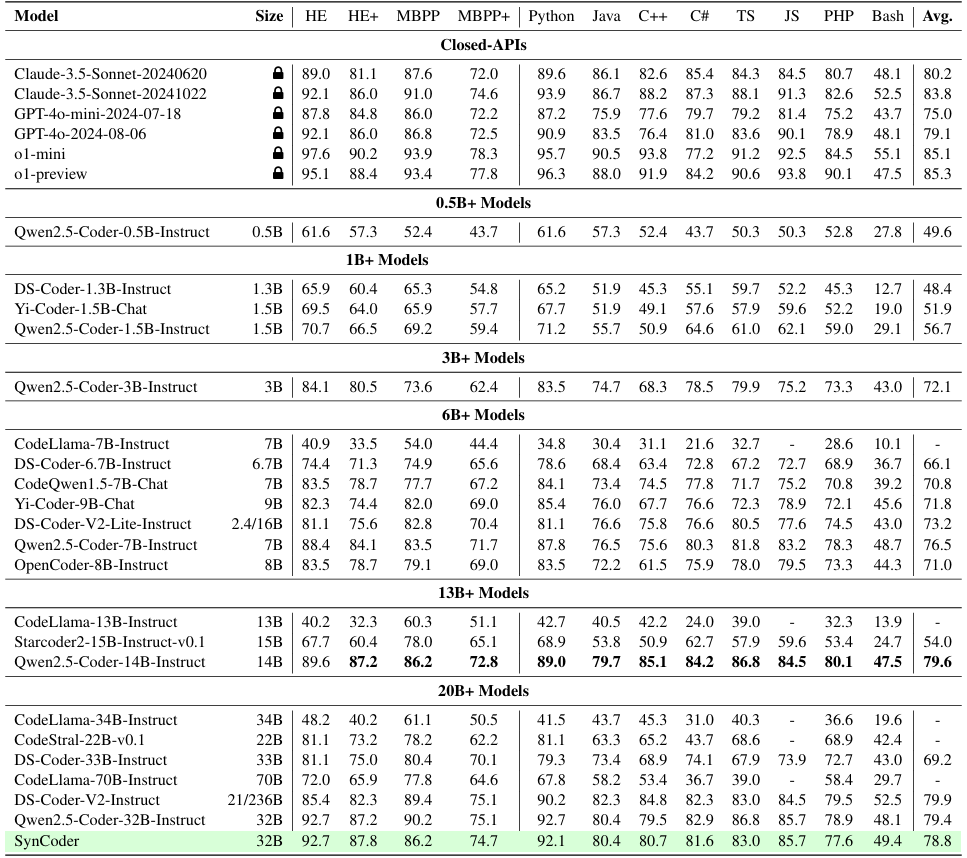
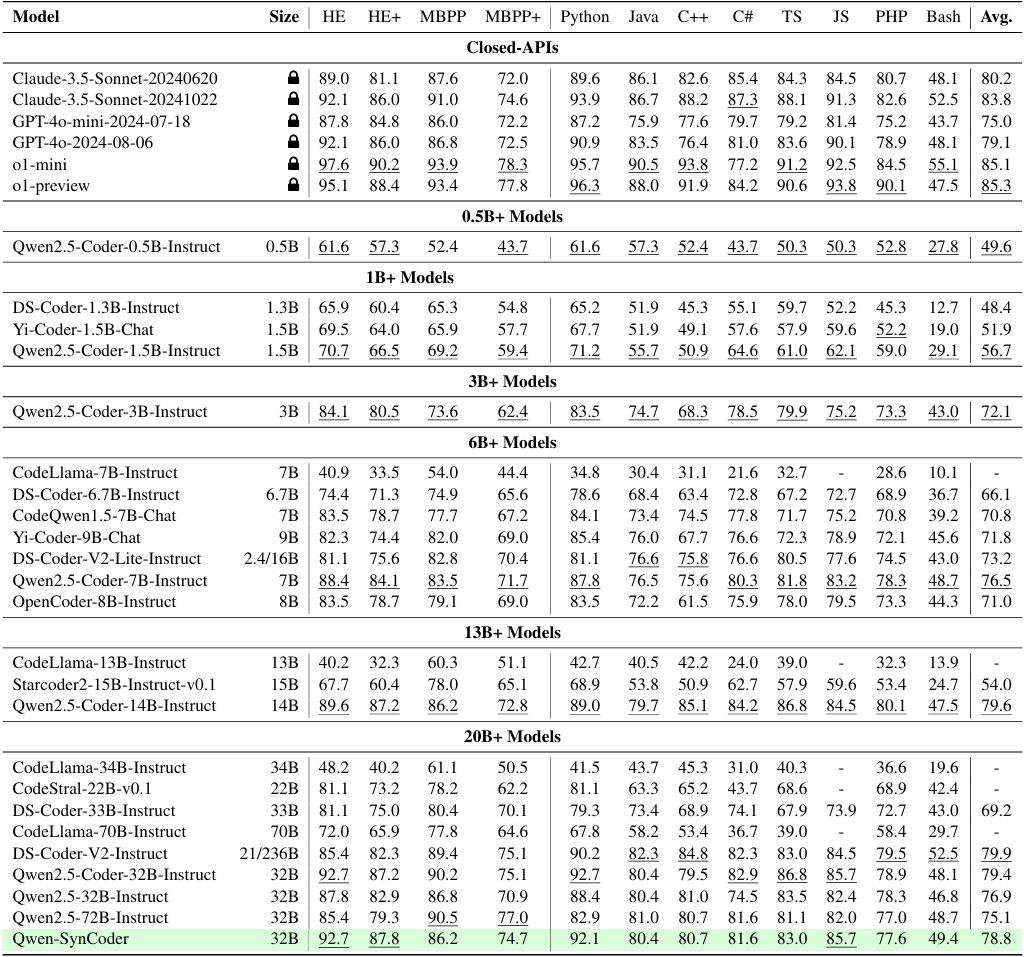
add qwq and change Qwen-SynCoder name

Changed region(s): [[0.0, 0.0, 1.0, 1.0]]

diff --git a/build/index.html b/build/index.html
@@ -195,7 +195,7 @@
               preference, which covers 40 categories, encompassing 7 major categories and 40 subcategories.
               (2) We introduce <span class="dnerf">synCode-instruct</span>, the large-scale
               synthetic code instruction corpora from the website.
-              Based on SynCode-Instruct, an effective coder <span class="dnerf">syncoder</span> is used as a strong baseline for CodeArena.
+              Based on SynCode-Instruct, an effective coder <span class="dnerf">Qwen-SynCoder</span> is used as a strong baseline for CodeArena.
               (3) We systematically evaluate 39 LLMs on created
               CodeArena and create a leaderboard to dynamically
               update the results. Notably, extensive experiments
@@ -418,7 +418,7 @@
             <p>
               We fine-tune Qwen2.5-Coder-32B on nearly 20B
               synthetic tokens generated from website data,
-              where GPT-4o generates 1B tokens and Qwen2.5-Coder-Instruct generates the left tokens. SynCoder is fine-tuned on the synthetic instruction
+              where GPT-4o generates 1B tokens and Qwen2.5-Coder-Instruct generates the left tokens. Qwen-SynCoder is fine-tuned on the synthetic instruction
               corpus SynCode-Instruct with 256 NVIDIA A100-80GB GPUs. The learning rate first increases into
               8 × 10−5 with 100 warmup steps and then adopts
               a cosine decay scheduler. We adopt the Adam optimizer (Kingma and Ba, 2015) with a global batch
@@ -447,7 +447,7 @@
           <div class="content has-text-justified">
             <p>
               <span class="dnerf">EvalPlus and Multipl-E.</span> Table 4 shows that
-              SynCoder significantly beats previous strong opensource baselines using large-scale synthetic instruction, closing the gap with GPT-4o and Claude,
+              Qwen-SynCoder significantly beats previous strong opensource baselines using large-scale synthetic instruction, closing the gap with GPT-4o and Claude,
               which verifies that the large-scale synthetic data can
               bring significant improvement for the base model.
             </p>
@@ -493,7 +493,7 @@
             <p>
               <span class="dnerf">Scaling Synthetic Instruction Corpora.</span> We
               would like to further analyze the performance of
-              SynCoder in MultiPl-E and CodeArena given different sizes of instruction corpora. Therefore, we
+              Qwen-SynCoder in MultiPl-E and CodeArena given different sizes of instruction corpora. Therefore, we
               select the full instruction (19B synthetic data is at
               the front of the data and 1B high-quality data is
               at the end) set SynCode-Instruct and extract the
@@ -501,7 +501,7 @@
               K = {2, 4, . . . , 20}. We randomly extract specific
               data from the whole sentence pairs. Figure 9 shows
               the performance on CodeArena. With the increase
-              of instruction data, SynCoder still can get significant improvement, which emphasizes the importance of the scaling instruction corpora. Besides,
+              of instruction data, Qwen-SynCoder still can get significant improvement, which emphasizes the importance of the scaling instruction corpora. Besides,
               the two-stage SFT gets a better performance compared to the one-stage training (red line), where
               the high-quality data brings a huge improvement at last.   
             </p>

diff --git a/public/index_home.html b/public/index_home.html
@@ -195,7 +195,7 @@
               preference, which covers 40 categories, encompassing 7 major categories and 40 subcategories.
               (2) We introduce <span class="dnerf">synCode-instruct</span>, the large-scale
               synthetic code instruction corpora from the website.
-              Based on SynCode-Instruct, an effective coder <span class="dnerf">syncoder</span> is used as a strong baseline for CodeArena.
+              Based on SynCode-Instruct, an effective coder <span class="dnerf">Qwen-SynCoder</span> is used as a strong baseline for CodeArena.
               (3) We systematically evaluate 39 LLMs on created
               CodeArena and create a leaderboard to dynamically
               update the results. Notably, extensive experiments
@@ -418,7 +418,7 @@
             <p>
               We fine-tune Qwen2.5-Coder-32B on nearly 20B
               synthetic tokens generated from website data,
-              where GPT-4o generates 1B tokens and Qwen2.5-Coder-Instruct generates the left tokens. SynCoder is fine-tuned on the synthetic instruction
+              where GPT-4o generates 1B tokens and Qwen2.5-Coder-Instruct generates the left tokens. Qwen-SynCoder is fine-tuned on the synthetic instruction
               corpus SynCode-Instruct with 256 NVIDIA A100-80GB GPUs. The learning rate first increases into
               8 × 10−5 with 100 warmup steps and then adopts
               a cosine decay scheduler. We adopt the Adam optimizer (Kingma and Ba, 2015) with a global batch
@@ -447,7 +447,7 @@
           <div class="content has-text-justified">
             <p>
               <span class="dnerf">EvalPlus and Multipl-E.</span> Table 4 shows that
-              SynCoder significantly beats previous strong opensource baselines using large-scale synthetic instruction, closing the gap with GPT-4o and Claude,
+              Qwen-SynCoder significantly beats previous strong opensource baselines using large-scale synthetic instruction, closing the gap with GPT-4o and Claude,
               which verifies that the large-scale synthetic data can
               bring significant improvement for the base model.
             </p>
@@ -493,7 +493,7 @@
             <p>
               <span class="dnerf">Scaling Synthetic Instruction Corpora.</span> We
               would like to further analyze the performance of
-              SynCoder in MultiPl-E and CodeArena given different sizes of instruction corpora. Therefore, we
+              Qwen-SynCoder in MultiPl-E and CodeArena given different sizes of instruction corpora. Therefore, we
               select the full instruction (19B synthetic data is at
               the front of the data and 1B high-quality data is
               at the end) set SynCode-Instruct and extract the
@@ -501,7 +501,7 @@
               K = {2, 4, . . . , 20}. We randomly extract specific
               data from the whole sentence pairs. Figure 9 shows
               the performance on CodeArena. With the increase
-              of instruction data, SynCoder still can get significant improvement, which emphasizes the importance of the scaling instruction corpora. Besides,
+              of instruction data, Qwen-SynCoder still can get significant improvement, which emphasizes the importance of the scaling instruction corpora. Besides,
               the two-stage SFT gets a better performance compared to the one-stage training (red line), where
               the high-quality data brings a huge improvement at last.   
             </p>
